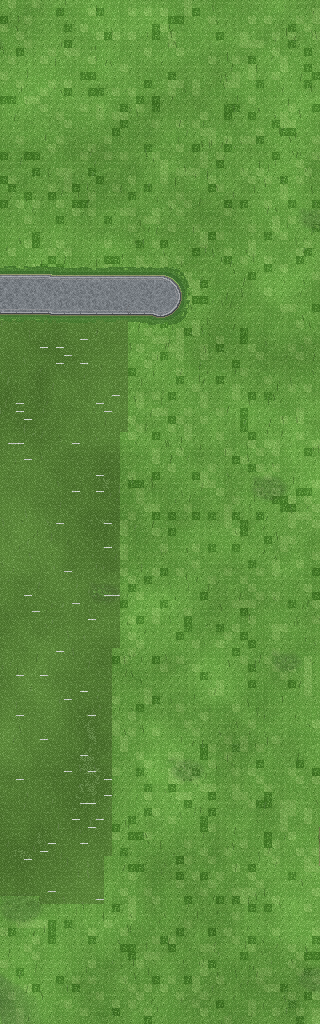
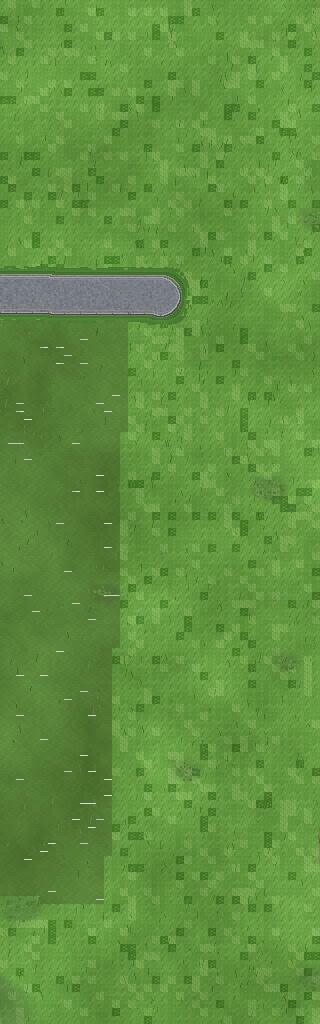
fix(art): 地面去噪收敛，草地/道路回归干净像素风；圆盘花纹淡化

Changed region(s): [[0.25, 0.6875, 0.3125, 0.7812], [0.7188, 0.7188, 0.75, 0.75], [0.0625, 0.8125, 0.0938, 0.8438]]

diff --git a/tools/bake_ground_texture.py b/tools/bake_ground_texture.py
@@ -51,8 +51,10 @@ SEED = 20261114
 
 # ---- A. 去平板 -------------------------------------------------------
 DEBLOCK = True
-DEBLOCK_CLAMP = 14          # 单像素最大修正量（格间差的一半左右，留余量）
-DEBLOCK_BLUR = 1            # 格分辨率上的额外平滑，抹掉插值振铃
+# 11-16 从 14 提到 28：原来的力度只压掉一半格台阶，剩下的深浅小方块在实机
+# 就是「地图没擦干净」的主因。加大后 8px / 4px 两档迷彩都收住了。
+DEBLOCK_CLAMP = 28
+DEBLOCK_BLUR = 2            # 格分辨率上的额外平滑，抹掉插值振铃
 # 草地要比路面多跑一遍 4px：detail 层第三档噪声是 `scale=4 + NEAREST`，
 # 它在地面上留下 4px 见方的方块迷彩，正常视距看就是「深浅不一的小格子」。
 DEBLOCK_CELLS_GRASS = ((8, 32), (4, 20))
@@ -64,19 +66,25 @@ DEBLOCK_CELLS_ROAD = ((8, 20),)
 # 另一半来源。这里按亮度取大尺度低频，只保留 LOW_KEEP 的比例。
 LOW_FLATTEN = True
 LOW_RADIUS = 40             # px：吃掉的斑块尺度（要大于 8px 格，远小于地图）
-LOW_KEEP = 0.26             # 保留 26% 的自然起伏，全抹平会像一块塑料
+# 11-16 从 0.26 降到 0.06：detail 层三尺度噪声幅度太大（64/38/16），
+# 留 26% 在实机仍是一大片斑驳。降到 6% 后草地回到接近纯色、但短竖线草簇
+# 和路肩 AO 还在（它们靠 LOW_CLAMP 保住），不会像塑料。
+LOW_KEEP = 0.06
 LOW_CLAMP = 20              # 单像素最大修正量，防止把墙脚 AO / 树影啃掉
 
 # ---- B. 材质与强度 ---------------------------------------------------
 GRASS_TEX = "grass_top.png"
 GRASS_SIGMA = 10.0
-GRASS_CLIP = 26
+# 11-16 从 26 降到 0：叠 16px 材质颗粒会让草地变成高频噪点（相邻像素 82% 跳色、
+# 一张 1024² 有 8334 色）。关掉后靠上面两档收敛保留层次，视觉才「干净」。
+# ⚠ 别再用 8x8 柔化 / 草地叠像素层去救：两版都试过，更像污渍（见项目日志）。
+GRASS_CLIP = 0
 # 整体压暗一档：grass_top 归一化后把草地推向「荧光绿」，压 4 级就沉稳了，
 # 和建筑/树的色板也更搭。三通道同 delta，分类不受影响。
 GRASS_SHADE = -4
 ROAD_TEX = "gravel.png"
 ROAD_SIGMA = 9.0
-ROAD_CLIP = 22
+ROAD_CLIP = 6               # 11-16 从 22 降到 6：路面留一点颗粒即可，别盖过车道线
 # 掩码收缩：路缘 1px 高光边、草路交界那圈过渡像素都不动
 ERODE_GRASS = 2
 ERODE_ROAD = 1
